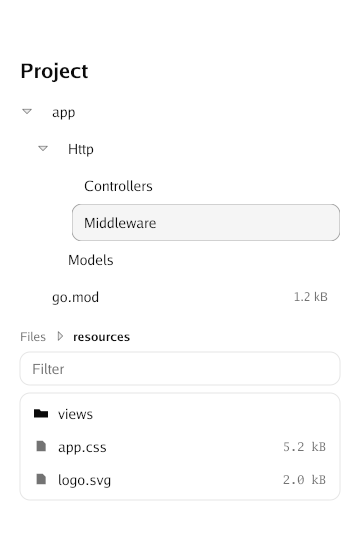
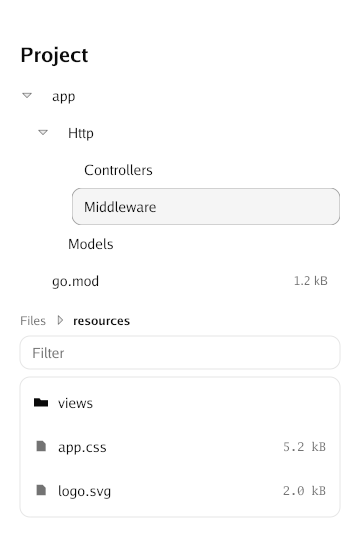
File picker: rows as tall as a finger, and its sentences are the application's
A row was 36 points, under the 44 a touch needs. The filter hint and the two
empty states were English with no way to change them; FilePickerWords carries
them, and zero values keep English.

diff --git a/widget/filepicker.go b/widget/filepicker.go
@@ -215,6 +215,19 @@ type FilePickerProps struct {
 	// Disabled draws the rows and the filter as unavailable, and nothing is
 	// reported while it is set.
 	Disabled bool
+	// Words are the picker's own sentences, in the application's language. Zero
+	// values draw English.
+	Words FilePickerWords
+}
+
+// FilePickerWords are the sentences a picker says.
+type FilePickerWords struct {
+	// Filter is the hint of the empty filter field.
+	Filter string
+	// NoMatches and NoMatchesBody are said when the filter matched nothing.
+	NoMatches, NoMatchesBody string
+	// Empty and EmptyBody are said of a directory with nothing in it.
+	Empty, EmptyBody string
 }
 
 // PartNames are the parts this widget publishes, by the names the web
@@ -249,7 +262,7 @@ func (p FilePickerProps) layout(c ayra.Context, state *FilePicker) ayra.Dimensio
 		}),
 		layout.Rigid(layout.Spacer{Height: 8}.Layout),
 		layout.Rigid(func(gtx layout.Context) layout.Dimensions {
-			return InputProps{Placeholder: "Filter", Disabled: p.Disabled}.Layout(c.With(gtx), &state.filter)
+			return InputProps{Placeholder: orDefault(p.Words.Filter, "Filter"), Disabled: p.Disabled}.Layout(c.With(gtx), &state.filter)
 		}),
 		layout.Rigid(layout.Spacer{Height: 8}.Layout),
 		layout.Rigid(func(gtx layout.Context) layout.Dimensions {
@@ -396,9 +409,9 @@ func (p FilePickerProps) listing(c ayra.Context, state *FilePicker, entries []Fi
 // to find, and the second is somewhere there is, behind a word somebody typed.
 func (p FilePickerProps) nothing(c ayra.Context, state *FilePicker) ayra.Dimensions {
 	if state.Filter() != "" {
-		return EmptyProps{Title: "No matches", Body: "Nothing in this directory matches the filter."}.Layout(c)
+		return EmptyProps{Title: orDefault(p.Words.NoMatches, "No matches"), Body: orDefault(p.Words.NoMatchesBody, "Nothing in this directory matches the filter.")}.Layout(c)
 	}
-	return EmptyProps{Title: "Empty", Body: "There is nothing in this directory."}.Layout(c)
+	return EmptyProps{Title: orDefault(p.Words.Empty, "Empty"), Body: orDefault(p.Words.EmptyBody, "There is nothing in this directory.")}.Layout(c)
 }
 
 // row draws one entry as a pressable line.
@@ -409,8 +422,13 @@ func (p FilePickerProps) row(c ayra.Context, entry FileEntry, state *Button, sel
 			fill = c.Theme.Colours.Accent
 		}
 		return surface(c, fill, fill, controlRadius(c), func(c ayra.Context) ayra.Dimensions {
-			return layout.Inset{Top: 8, Bottom: 8, Left: 10, Right: 10}.Layout(c.Context, func(gtx layout.Context) layout.Dimensions {
-				return p.line(c.With(gtx), entry)
+			// A row is as tall as a finger, and the line sits in the middle of it.
+			c.Constraints.Min.Y = c.Dp(unit.Dp(44))
+			return layout.W.Layout(c.Context, func(gtx layout.Context) layout.Dimensions {
+				gtx.Constraints.Min = image.Point{}
+				return layout.Inset{Top: 8, Bottom: 8, Left: 10, Right: 10}.Layout(gtx, func(gtx layout.Context) layout.Dimensions {
+					return p.line(c.With(gtx), entry)
+				})
 			})
 		})
 	}

diff --git a/widget/filepicker_words_test.go b/widget/filepicker_words_test.go
@@ -1,0 +1,42 @@
+package widget_test
+
+import (
+	"image"
+	"testing"
+
+	"github.com/arandu-io/ayra"
+	"github.com/arandu-io/ayra/widget"
+)
+
+// TestAFilePickerRowIsAsTallAsAFinger: a row was 36 points, under the 44 a touch
+// target needs.
+func TestAFilePickerRowIsAsTallAsAFinger(t *testing.T) {
+	p := newPanel()
+	p.size = image.Pt(400, 2000)
+	var state widget.FilePicker
+	one := p.draw(func(c ayra.Context) ayra.Dimensions {
+		return widget.FilePickerProps{Entries: []widget.FileEntry{{Name: "a.txt"}}}.Layout(c, &state)
+	})
+	two := p.draw(func(c ayra.Context) ayra.Dimensions {
+		return widget.FilePickerProps{Entries: []widget.FileEntry{{Name: "a.txt"}, {Name: "b.txt"}}}.Layout(c, &state)
+	})
+	if row := two.Size.Y - one.Size.Y; row < 44 {
+		t.Errorf("a row of the listing is %d tall, want at least 44", row)
+	}
+}
+
+// TestAFilePickerSpeaksTheLanguageItIsGiven: "Filter", "Empty" and the rest were
+// English with no way to change them.
+func TestAFilePickerSpeaksTheLanguageItIsGiven(t *testing.T) {
+	p := newPanel()
+	p.size = image.Pt(160, 800)
+	var a, b widget.FilePicker
+	english := p.draw(func(c ayra.Context) ayra.Dimensions { return widget.FilePickerProps{}.Layout(c, &a) })
+	words := widget.FilePickerWords{Filter: "Filtrar", Empty: "Vazia", EmptyBody: "Não há nada nesta pasta, nem arquivos, nem outras pastas dentro dela para abrir."}
+	portuguese := p.draw(func(c ayra.Context) ayra.Dimensions {
+		return widget.FilePickerProps{Words: words}.Layout(c, &b)
+	})
+	if english.Size == portuguese.Size {
+		t.Error("the sentences given changed nothing that was drawn")
+	}
+}
